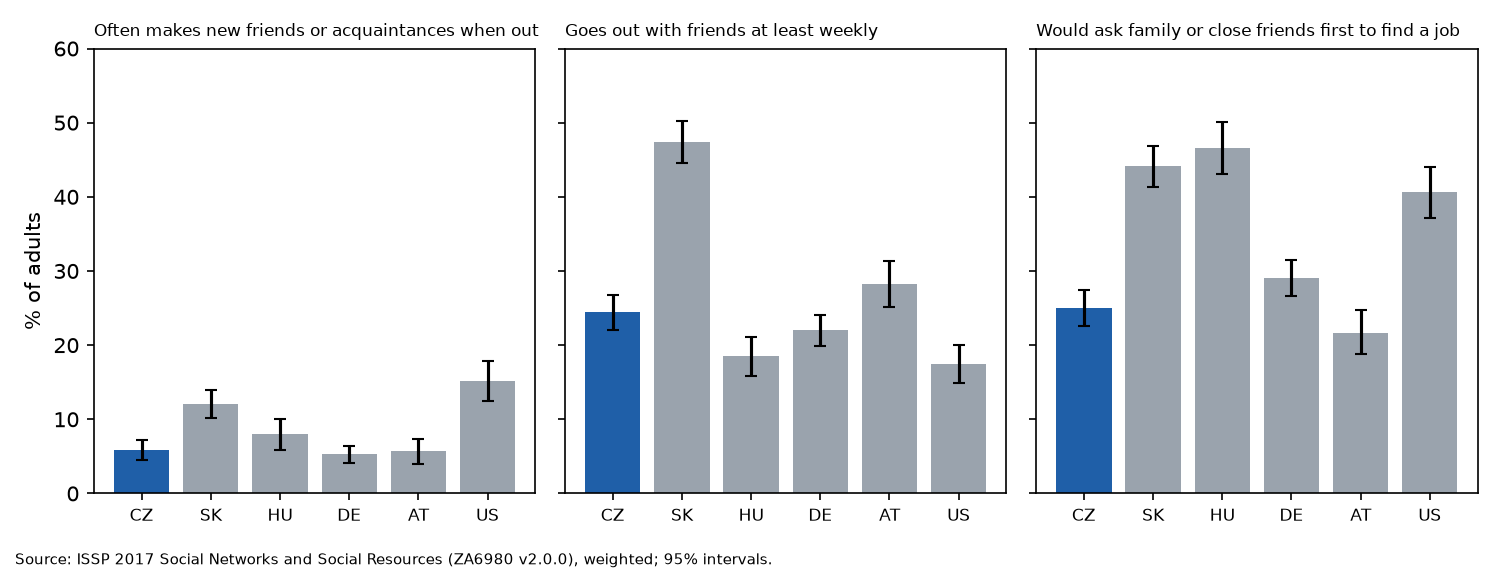
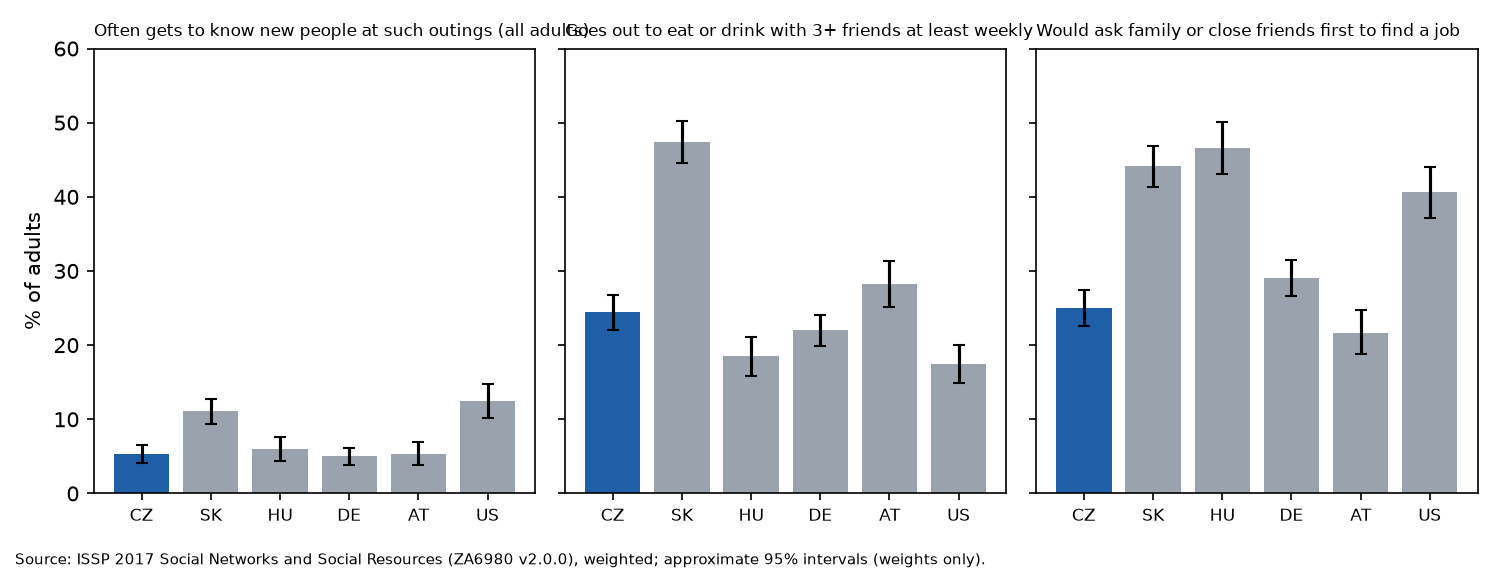
Czech culture snack: apply independent review corrections

diff --git a/tests/reading.test.ts b/tests/reading.test.ts
@@ -10,7 +10,7 @@ test('all source tables retain exact cells, inline links and order after wrappin
  expect(reading.html).not.toContain('cell-bar');expect(reading.html).not.toContain('visual-links');
  for(const v of reading.visuals.filter(v=>v.csv)){expect(v.csv!.split('\r\n').filter(Boolean).length).toBe(v.rows!+1);expect(v.csv).toContain('"');}
  expect(figuresMarkdown(reading,entry.id,entry.title)).toContain('Back to the text');}
- expect(total).toBe(86);
+ expect(total).toBe(92);
 });
 test('numbers, currency, dates and year ranges sort by value',()=>{
  expect(tableValue('48.4%')).toBe(48.4);expect(tableValue('£2,400')).toBe(2400);expect(tableValue('−93')).toBe(-93);expect(tableValue('(24.5)')).toBe(-24.5);expect(tableValue('1.2 billion')).toBe(1.2e9);expect(tableValue('1990–2024')).toBe(1990);expect(tableValue('1990s')).toBe(1990);expect(tableValue('17 December 1964')).toBe(Date.UTC(1964,11,17));expect(tableValue('unrecorded')).toBeNull();expect(tableValue('$9.9bn')).toBe(9.9e9);expect(tableValue('$9.11bn')).toBe(9.11e9);expect(tableValue('About £130,000')).toBe(130000);expect(tableValue('£1.2tn')).toBe(1.2e12);

diff --git a/entries/2026-11-22-czech-culture-guide-values-surveys/index.md b/entries/2026-11-22-czech-culture-guide-values-surveys/index.md
@@ -7,8 +7,8 @@ category: social-science
 tags: ["values surveys", "Czech Republic", "culture", "survey translation", "World Values Survey"]
 claim: "Old culture guides for visitors to the Czech Republic say that Czechs join fewer professional and interest groups than Americans and West Europeans, keep a strong boundary between people they know and strangers, and expect women to work but still carry the family and rarely lead."
 claim_source: "https://researchsnacks.semanticmachines.fyi/2026-11-22-czech-culture-guide-values-surveys/#what-the-guides-say"
-verdict: "The gender-role claim holds in three surveys. Czechs do make new friends and go out with friends less often than Americans or Slovaks, and they hold fewer group memberships, but they trust strangers as much as their neighbours do; on sociability they look like Germans and Austrians. Several large differences between the 2017 and 2022 Czech surveys come from changes in the Czech wording."
-time_taken: "About 40 minutes of recorded analysis on 22 November 2026 (01:14 to 01:27 and 08:57 to 09:30 UK time), plus an earlier scoping session on 21 and 22 November that is not measured here."
+verdict: "The claim about women as leaders holds in three surveys. Czechs go out with groups of friends and meet new people there less often than Slovaks or Americans, and in the 2022 survey they belong to far fewer groups than Germans or North Americans, yet they trust strangers about as much as Americans do. Several large differences between the 2017 and 2022 Czech surveys coincide with changes in the Czech wording or in how the questions were asked."
+time_taken: "About 55 minutes of recorded analysis and drafting on 22 November 2026 (01:14 to 01:27 and 08:57 to 09:45 UK time), plus an earlier scoping session on 21 and 22 November that is not measured here."
 human_time: "Estimated 20 minutes for Dominik: choosing the claims and countries, restating the friendship claim, and downloading six data and documentation files behind registration forms."
 tools:
   - "Claude Code (claude-opus-5-5)"
@@ -23,7 +23,7 @@ data_sources:
   - "ISSP 2017 Social Networks and Social Resources (ZA6980 v2.0.0)"
   - "ISSP 2022 Family and Changing Gender Roles V (ZA10000 v2.0.0)"
   - "Czech and Slovak national questionnaires (WVS 2022, EVS 2017, ISSP 2017)"
-summary: "Old culture guides for visitors claim that Czechs join few groups, keep strangers at a distance and hold traditional views of women's roles. Four international surveys agree on gender roles: Czechs answer like Slovaks, far from Germans, Austrians or North Americans. Czechs also make new friends and go out with friends less often than Americans or Slovaks, yet they trust strangers as much as their neighbours do, so reserve is not distrust. Some large shifts between the 2017 and 2022 Czech surveys come from translation: 'hard work' became 'tvrdá práce' (toil) and 'responsibility' became 'obligation'."
+summary: "Old culture guides for visitors claim that Czechs join few groups, keep strangers at a distance and hold traditional views of women's roles. Three international surveys agree that Czechs are far more likely than Germans, Austrians or North Americans to say men make better leaders. Czechs go out with groups of friends and meet new people there less often than Slovaks or Americans, yet they trust strangers about as much as Americans do, so reserve is not the same as distrust. Large shifts between the 2017 and 2022 Czech surveys coincide with changes in the Czech wording, such as 'pracovitost' becoming 'tvrdá práce' for hard work."
 references:
   - type: dataset
     authors: ["EVS/WVS"]
@@ -90,119 +90,158 @@ The guides do not cite surveys. They describe the experience of foreigners livin
 
 ### In short
 
-- **Gender roles: the claim holds.** In three surveys Czechs say men make better leaders about three times as often as Germans, Austrians, Americans or Canadians. Slovaks answer much like Czechs.
-- **Strangers: the claim needed restating.** Czechs do not distrust strangers more than their neighbours do. When Dominik looked at the trust result, he said that the guides meant something else: how readily people make friends, share and start working with people outside their circle. On those measures Czechs go out with friends and make new friends less often than Americans or Slovaks. They look like Germans and Austrians.
-- **Groups: the claim holds against the US, Germany and Canada,** but the size of the gap depends on how the question is asked.
+- **Women as leaders: the claim holds.** In three surveys Czechs say men make better political or business leaders far more often than Germans, Austrians, Americans or Canadians.
+- **Strangers: the claim needed restating.** Czechs do not report less trust in strangers than Americans, Austrians or Germans. When Dominik looked at the trust result, he said that the guides meant something else: how readily people make friends, share and start working with people outside their circle. The closest survey measure is about going out with groups of friends. Czechs do that, and meet new people there, less often than Slovaks or Americans, and about as often as Germans and Austrians.
+- **Groups: the claim holds against the US, Germany and Canada in the 2022 survey.** The 2017 survey asks the question differently and puts Czechia close to Germany and Austria.
 
-### The surveys disagree with each other
+### The two values surveys disagree
 
-Czechia was surveyed by the European Values Study in 2017 and by the World Values Survey in 2022. On several questions the two give very different answers. Reading the Czech questionnaires shows that most of these differences come from the wording, not from changes in opinion (see [Wording changes the answer](#wording-changes-the-answer)).
+Czechia was surveyed by the European Values Study (EVS) in 2017 and by the World Values Survey (WVS) in 2022. On several questions the two give very different answers. The Czech questionnaires show changes in wording or in how the question was asked for most of these items (see [Wording changes the answer](#wording-changes-the-answer)). Because of this, the tables below show the two surveys separately and compare countries only within the same survey.
 
-## Gender roles
+## Women and leadership
 
 ### Leaders and jobs
 
-| Agrees that… | Czechia | Slovakia | Poland | Germany | Austria | US | Canada |
-|---|---:|---:|---:|---:|---:|---:|---:|
-| men make better political leaders | 41–50 | 49–52 | 30 | 8–10 | 20 | 17 | 15 |
-| men should have priority when jobs are scarce | 22–27 | 37–42 | 24 | 7–9 | 14 | 5 | 6 |
-| children suffer when the mother works | 32 | 25–37 | 51 | 29–34 | 47 | 21 | 21 |
+| European Values Study, % agreeing | Czechia 2017 | Slovakia 2017 | Poland 2017 | Germany 2017 | Austria 2018 |
+|---|---:|---:|---:|---:|---:|
+| men make better political leaders | 41 | 52 | 30 | 10 | 20 |
+| men should have more right to a job when jobs are scarce | 22 | 37 | 24 | 7 | 14 |
+| children suffer when the mother works | 32 | 37 | 51 | 34 | 47 |
 
-Weighted percentages from the joint EVS/WVS dataset. Where a country has two surveys, both are shown as a range.
+| World Values Survey, % agreeing | Czechia 2022 | Slovakia 2022 | Germany 2018 | US 2017 | Canada 2020 |
+|---|---:|---:|---:|---:|---:|
+| men make better political leaders | 50 | 49 | 8 | 16 | 15 |
+| men should have more right to a job when jobs are scarce | 27 | 42 | 9 | 5 | 6 |
+| children suffer when the mother works | 32 | 25 | 29 | 21 | 21 |
+
+Weighted percentages agreeing or strongly agreeing. The jobs item is collapsed to agree, neither or disagree. Both Czech versions of the working-mother item ask about children in general; the master questionnaire mentions pre-school children.
 
 ![Share agreeing that men make better political leaders, by country and survey](charts/1-men-political-leaders.png)
 
-A third source agrees. In the ISSP 2022 survey on family and gender roles, 26% of Czechs say men are better suited to serve in government and 31% to run a large company, against 8–14% in Germany, Austria and the US. Slovakia is higher (44–49%) and Poland lower (17–19%).
+Czechs and Slovaks give similar answers about political leaders. On jobs, Slovaks are about 15 points more traditional than Czechs in both surveys.
 
-The working-mother question is the exception. Czechs are less traditional on it than Austrians or Poles.
+A third source agrees. In the ISSP 2022 survey on family and gender roles, 26% of Czechs say men are better suited to serve in the national government and 31% to be a senior executive of a large company. The figures are 8–14% in Germany, Austria and the US, 44–49% in Slovakia and 17–19% in Poland.
+
+The working-mother question is the exception: Czechs agree less often than Austrians or Poles.
 
 ## Making friends and working with strangers
 
 ### Trust is not the same as reserve
 
-| Trusts completely or somewhat | Czechia | Slovakia | Poland | Hungary | Ukraine | Germany | Austria | US | Canada |
-|---|---:|---:|---:|---:|---:|---:|---:|---:|---:|
-| people met for the first time | 37–39 | 30–33 | 27 | 39 | 21–29 | 30–35 | 40 | 40 | 50 |
-| people of another nationality | 45–46 | 41–43 | 51 | 57 | 46–50 | 63–64 | 59 | 74 | 82 |
+| European Values Study, % trusting completely or somewhat | Czechia | Slovakia | Poland | Hungary | Ukraine | Germany | Austria |
+|---|---:|---:|---:|---:|---:|---:|---:|
+| people met for the first time | 37 | 33 | 27 | 39 | 21 | 30 | 40 |
+| people of another nationality | 45 | 41 | 51 | 57 | 46 | 63 | 59 |
 
-Czechs trust strangers about as much as Americans and Austrians, and more than Germans, Slovaks, Poles or Ukrainians. They trust people of another nationality less than Germans or North Americans do, but about as much as their eastern neighbours.
-
-### How people meet and make friends
-
-The ISSP 2017 survey on social networks asks about behaviour, not trust. It covers Czechia, Slovakia, Hungary, Germany, Austria and the US, but not Poland, Canada or Ukraine.
-
-| | Czechia | Slovakia | Hungary | Germany | Austria | US |
+| World Values Survey, % trusting completely or somewhat | Czechia | Slovakia | Ukraine | Germany | US | Canada |
 |---|---:|---:|---:|---:|---:|---:|
-| Often or very often makes new friends or acquaintances when going out | 6 | 12 | 8 | 5 | 6 | 15 |
-| Goes out with friends at least weekly | 25 | 47 | 19 | 22 | 28 | 17 |
-| Leisure, sport or culture group activities at least monthly | 32 | 39 | 22 | 43 | 40 | 32 |
-| Would ask family or close friends first to find a job | 25 | 44 | 47 | 29 | 22 | 41 |
+| people met for the first time | 39 | 30 | 29 | 35 | 40 | 50 |
+| people of another nationality | 46 | 43 | 50 | 64 | 74 | 82 |
+
+In both surveys Czechs report trusting people they meet for the first time at least as often as Germans, and as often as Americans or Austrians. They report trusting people of another nationality less often than Germans, Austrians or North Americans.
+
+### Going out and meeting new people
+
+The ISSP 2017 survey on social networks asks about behaviour. One question asks how often people go out to eat or drink with three or more friends or acquaintances who are not family. The next asks how often they get to know new people on those occasions. The survey covers Czechia, Slovakia, Hungary, Germany, Austria and the US, but not Poland, Canada or Ukraine.
+
+| ISSP 2017, % of adults | Czechia | Slovakia | Hungary | Germany | Austria | US |
+|---|---:|---:|---:|---:|---:|---:|
+| Goes out to eat or drink with three or more friends at least weekly | 25 | 47 | 19 | 22 | 28 | 17 |
+| Often or very often gets to know new people at such outings | 5 | 11 | 6 | 5 | 5 | 13 |
+| Takes part in leisure, sport or culture group activities at least monthly | 32 | 39 | 22 | 43 | 40 | 32 |
+| Would turn first to family or close friends for help finding a job | 25 | 44 | 47 | 29 | 22 | 41 |
+
+The second row counts people who never go out as not meeting new people; among those who do go out, the figures are 6, 12, 8, 5, 6 and 15.
 
 ![Three sociability measures from ISSP 2017](charts/2-issp-sociability.png)
 
-Czechs rarely make new friends when they go out: 6%, against 15% of Americans. That supports the guides against the American comparison. But Germans and Austrians answer the same way, and Slovaks go out with friends twice as often as Czechs.
+Czechs meet new people at these outings less often than Americans or Slovaks, which fits the guides' comparison with Americans. On this and on going out, Czechs answer like Germans and Austrians. The other two measures point elsewhere: Czechs take part in group activities less often than Germans or Austrians, about as often as Americans, and fewer turn first to family or close friends for job help than in Slovakia or Hungary.
 
 ### Groups and joint action
 
-| | Czechia | Slovakia | Poland | Hungary | Germany | Austria | US | Canada |
-|---|---:|---:|---:|---:|---:|---:|---:|---:|
-| Belongs to two or more civic groups | 9–24 | 3–16 | 5 | 11 | 27–32 | 19 | 46 | 34 |
-| Has signed a petition, boycotted or demonstrated | 24–44 | 39–48 | 39 | 20 | 68–72 | 60 | 63 | 73 |
+| European Values Study, % of adults | Czechia | Slovakia | Poland | Hungary | Ukraine | Germany | Austria |
+|---|---:|---:|---:|---:|---:|---:|---:|
+| Belongs to at least one civic group | 54 | 16 | 18 | 25 | 16 | 62 | 48 |
+| Belongs to two or more civic groups | 28 | 3 | 5 | 11 | 6 | 29 | 19 |
+| Has ever signed a petition, joined a boycott or attended a lawful demonstration | 48 | 42 | 40 | 21 | 16 | 70 | 62 |
 
-Civic groups here exclude churches, unions and parties. Czechs take part in joint public action less than Germans, Austrians or North Americans, about as much as Slovaks and Poles.
+| World Values Survey, % of adults | Czechia | Slovakia | Ukraine | Germany | US | Canada |
+|---|---:|---:|---:|---:|---:|---:|
+| Belongs to at least one civic group | 25 | 37 | 30 | 64 | 64 | 55 |
+| Belongs to two or more civic groups | 9 | 18 | 17 | 32 | 46 | 34 |
+| Has ever signed a petition, joined a boycott or attended a lawful demonstration | 24 | 49 | 22 | 73 | 64 | 73 |
+
+Civic groups here are eight types of organisation, excluding churches, unions and parties. The World Values Survey counts active and inactive members together.
+
+The two surveys tell different stories for Czechia. In the 2022 World Values Survey, Czechs belong to groups and take part in joint public action far less often than Germans, Americans or Canadians, and less often than Slovaks. In the 2017 European Values Study, Czechs are close to Germany and Austria on membership and well above Slovakia, Poland and Hungary. The two surveys asked about membership in different ways (see [Wording changes the answer](#wording-changes-the-answer)).
 
 ## Family and work
 
 ### Duties to family
 
-| Agrees… | Czechia | Slovakia | Poland | Hungary | Germany | Austria | US | Canada |
-|---|---:|---:|---:|---:|---:|---:|---:|---:|
-| adult children have a duty to care for their parents (EVS/WVS) | 55–70 | 59–73 | 74 | 60 | 45–48 | 41 | 40 | 36 |
-| can rely more on close relatives than close friends (ISSP 2022) | 56 | 58 | 42 | 48 | 32 | 34 | 46 | – |
+| European Values Study, % agreeing | Czechia | Slovakia | Poland | Hungary | Germany | Austria |
+|---|---:|---:|---:|---:|---:|---:|
+| When a parent is ill long term, it is the adult child's duty to look after them | 70 | 73 | 74 | 60 | 45 | 41 |
+| Lives with own parents or parents-in-law | 16 | 23 | 27 | 23 | 13 | 13 |
 
-On family Czechs sit between west and east, and closer to Slovakia than to Germany or Austria.
+| World Values Survey, % agreeing | Czechia | Slovakia | Germany | US | Canada |
+|---|---:|---:|---:|---:|---:|
+| Adult children have the duty to provide long-term care for their parents | 55 | 59 | 48 | 40 | 36 |
+| Lives with own parents or parents-in-law | 15 | 16 | 10 | 11 | 14 |
+
+In the ISSP 2017, 75% of Czechs agree that adult children have a duty to look after elderly parents, against 79% of Slovaks, 55% of Germans and 51% of Austrians. In the ISSP 2022, 56% of Czechs say they can rely more on close relatives than on close friends, close to Slovakia (58%) and Croatia (58%) and well above Germany (32%) and Austria (34%).
+
+On duties to parents Czechs agree slightly less often than Slovaks in all three surveys and much more often than Germans or Austrians.
 
 ### Duties to work
 
-| Agrees… | Czechia | Slovakia | Poland | Hungary | Ukraine | Germany | Austria | US | Canada |
-|---|---:|---:|---:|---:|---:|---:|---:|---:|---:|
-| work is a duty towards society | 49–60 | 58–66 | 74 | 69 | 40–43 | 75–78 | 74 | 59 | 55 |
-| people who don't work turn lazy | 68–78 | 79 | 82 | 79 | 64–66 | 56–60 | 57 | 44 | 40 |
+| European Values Study, % agreeing | Czechia | Slovakia | Poland | Hungary | Ukraine | Germany | Austria |
+|---|---:|---:|---:|---:|---:|---:|---:|
+| Work is a duty towards society | 60 | 66 | 74 | 69 | 43 | 78 | 74 |
+| People who don't work turn lazy | 78 | 79 | 82 | 79 | 66 | 60 | 57 |
 
-Work as a duty to society is weaker in Czechia than in any other European country here except Ukraine. Yet most Czechs agree that people who don't work turn lazy, as their eastern neighbours do.
+| World Values Survey, % agreeing | Czechia | Slovakia | Ukraine | Germany | US | Canada |
+|---|---:|---:|---:|---:|---:|---:|
+| Work is a duty towards society | 49 | 58 | 40 | 75 | 59 | 54 |
+| People who don't work turn lazy | 68 | 79 | 64 | 56 | 44 | 40 |
+
+Fewer Czechs than Slovaks, Poles, Hungarians, Germans or Austrians call work a duty towards society; only Ukrainians agree less often. Yet most Czechs agree that people who don't work turn lazy, as Slovaks, Poles and Hungarians do.
 
 ## Wording changes the answer
 
 ### What the Czech questionnaires say
 
-| Question | Czech EVS 2017 | Czech WVS 2022 | Answers |
+| Question | Czech EVS 2017 | Czech WVS 2022 | Czech answers |
 |---|---|---|---:|
-| Hard work as a quality for children | "pracovitost" (industriousness) | "tvrdá práce" (hard labour, toil) | 81% → 23% |
-| Having children and society | "zodpovědnost" (a responsibility) | "povinnost" (an obligation) | 58% → 28% |
+| Hard work as a quality for children | "pracovitost" (industriousness) | "tvrdá práce" (hard work; the phrase can suggest toil) | 81% → 23% |
+| Having children and society | "zodpovědnost" (a responsibility) | "povinnost" (a duty or obligation) | 58% → 28% |
 | Caring for parents | duty to look after a parent who is ill long term | duty to provide long-term care for parents | 70% → 55% |
-| Group membership | which organisations do you belong to (list) | active member, inactive member or not a member, item by item | 47% → 25% |
+| Group membership | show card: which of these do you belong to? | read out one by one: active member, inactive member or not a member | 54% → 25% |
 
 The Slovak WVS 2022 questionnaire uses "pracovitosť" for hard work, and 63% of Slovaks chose it.
 
 ![Czech and Slovak answers in 2017 and 2022 on four questions](charts/3-wording-effects.png)
 
-Two more problems showed up:
+The questionnaires show that the wording or the format changed. They cannot show how much of each gap the change caused.
 
-- In the Czech EVS 2017, 18% of respondents chose more than five qualities for children, although the questionnaire asked for at most five. Every Czech EVS figure on that list is therefore too high.
-- The general trust question is translated differently in different surveys. Both Czech values surveys keep the original contrast with "you have to be very careful in dealing with people". The Czech ISSP 2017 version offers "people can usually be trusted" against "people usually cannot be trusted". Czech trust comes out at 22% (EVS 2017), 37% (WVS 2022) and 59% (ISSP 2017).
+Two more points:
+
+- In the Czech EVS 2017, 18% of respondents have more than five child qualities recorded, although the questionnaire asked for at most five. Among those with five or fewer, 78% chose hard work, which still leaves a gap of about 55 points to 2022.
+- The general trust question is framed differently. Both Czech values surveys contrast trusting most people with having to be very careful in dealing with people. The Czech ISSP 2017 version offers four answers from "people can almost always be trusted" to "people can almost never be trusted", without the caution framing of the English original. The Czech figures are 22% (EVS 2017, trusting answer), 37% (WVS 2022, trusting answer), 59% (ISSP 2017, almost always or usually) and 50% (ESS 2021, 6–10 on a 0–10 scale). The framing is a possible explanation for the high ISSP figure; it was not tested.
 
 ### Change or wording?
 
-If a gap comes from wording, it should be about the same size in every group of people. For hard work (52 to 62 points), duty to have children (25 to 33 points) and group membership (19 to 27 points), the 2017–2022 gap is similar across age and education groups. For trust and for the duty to care for parents, the gap varies between groups, so part of it may be real change. The Czech WVS was carried out between February and May 2022, after COVID and during the first months of the Russian invasion of Ukraine.
+If a gap comes from wording, it should be about the same size in every group of people. For hard work (52 to 62 points), duty to have children (25 to 33 points) and group membership (26 to 32 points), the gap between 2017 and 2022 is similar across age and education groups. For trust and for the duty to care for parents, the gap varies between groups, so part of it may be real change. The Czech WVS interviews took place between 11 February and 13 May 2022; 101 of the 1,200 interviews were done before the Russian invasion of Ukraine on 24 February.
 
 ## Limits of this check
 
 - These are national averages. They say nothing about any individual Czech, and the differences within each country are larger than those between countries.
-- The surveys ask about attitudes and a few reported behaviours. They do not observe how people actually behave with strangers or at work.
-- Comparisons across surveys are unsafe. Figures are compared only within the same survey, and a range is shown where a country has two.
-- The ISSP 2017 module does not cover Poland, Canada or Ukraine; ESS round 10 does not cover Germany, Austria or Poland.
-- The translation findings rest on reading the questionnaires. The German, Austrian and English versions were not compared item by item.
-- Each guide claim was turned into survey items by judgement (see [Data and method](#data-and-method)). A different choice of items could give a different picture.
+- The surveys ask about attitudes and a few reported behaviours. The ISSP outing question covers one kind of occasion; none of these surveys observes how people actually behave with strangers or how readily they start working together.
+- Countries are compared only within the same survey. Surveys were carried out in different years and modes (see [Data and method](#data-and-method)), and the US and Canadian WVS samples answered mostly online.
+- The ISSP 2017 module does not cover Poland, Canada or Ukraine; Hungary and Ukraine are not neighbours of Czechia but were added for regional context.
+- The intervals in the charts account for the survey weights only, not for clustering or stratification, so they are approximate. Overlapping intervals do not show that two countries are the same.
+- The translation findings rest on reading the Czech and Slovak questionnaires. The German, Austrian, Polish and English versions were not compared item by item.
+- Each guide claim was turned into survey items by judgement. A different choice of items could give a different picture.
 - The guides contain material written by other people, some of it from the 1990s. This page tests the claims, not who made them.
 
 ## How this was made
@@ -215,25 +254,35 @@ All times UK time (GMT).
 - **22 November 01:14:** Dominik chose the countries: the US, Canada and the neighbours.
 - **01:18–01:22:** Dominik downloaded the joint EVS/WVS and ESS files.
 - **01:24–01:27:** first weighted tables for the three claims.
-- **08:57:** Dominik restated the friendship claim: it was about patterns of contact, not trust. He added Hungary and Ukraine.
+- **08:57:** Dominik restated the friendship claim: it was about patterns of contact and cooperation, not trust. He added Hungary and Ukraine.
 - **08:59:** he asked about duties to family and work.
 - **09:04:** he asked for the disagreements to be checked against the question wording, including the Czech translations.
-- **09:06–09:14:** Dominik downloaded the ISSP 2017 and 2022 files and the Czech and Slovak EVS questionnaires; the agent downloaded the WVS questionnaires.
-- **09:27:** second-model review requested; subgroup check and draft.
+- **09:06–09:14:** Dominik downloaded the ISSP 2017 and 2022 files and the Czech and Slovak EVS questionnaires; the agent downloaded the WVS questionnaires and the Czech WVS technical report.
+- **09:27–09:34:** Codex reviewed the scripts and claims; it reproduced every table and found errors in the membership measure, the description of the outing question and the labelling of surveys, all corrected here.
 
 ### Data and method
 
-- All figures are weighted percentages of adults with valid answers ("don't know" and no answer excluded). Weights: `gwght` (EVS/WVS), `anweight` (ESS), `WEIGHT` (ISSP 2017), `WEIGHT_COM` (ISSP 2022). Intervals are 95% intervals using the effective sample size.
-- Judgement steps: which survey items stand for each guide claim; collapsing agree-strongly and agree; which organisation types count as civic groups (all except churches, unions and parties); treating 1–3 on the ISSP 2022 seven-point scales as leaning one way.
+| Survey | Fieldwork used here | Mode |
+|---|---|---|
+| European Values Study 2017 | CZ, SK, PL 2017; DE 2017–18; AT, HU 2018; UA 2020 | face to face; Germany also web and mail |
+| World Values Survey wave 7 | US 2017; DE 2018; CA, UA 2020; CZ, SK 2022 | CZ face to face (CAPI); US mainly and Canada entirely web |
+| ISSP 2017 Social Networks | CZ, SK, HU 2017; DE, AT, US 2018 | CZ face to face; DE mainly self-completion |
+| ISSP 2022 Family and Gender Roles | CZ, SK, PL, US 2022; DE, AT 2023; HR 2024 | as documented by each country |
+| European Social Survey round 10 | CZ July–September 2021 | face to face |
+
+- All figures are weighted percentages of adults with valid answers ("don't know" and no answer excluded). Weights: `gwght` (EVS/WVS), `anweight` (ESS), `WEIGHT` (ISSP 2017), `WEIGHT_COM` (ISSP 2022).
+- Membership uses every respondent who can be classified: a yes if they named enough groups, a no only if their missing answers could not change the result.
+- Judgement steps: which survey items stand for each guide claim; collapsing strongly agree and agree; which organisation types count as civic groups; treating 1–3 on the ISSP 2022 seven-point scale as leaning towards relatives.
 - The survey microdata are not redistributed. Derived tables, the code and the item definitions will be published in the data repository before this page goes live.
 
 ### Models, tools and tokens
 
 | Model | Role | Calls | Tokens read | Tokens written |
 |---|---|---:|---:|---:|
-| claude-opus-5-5 | analysis, questionnaire reading, drafting | 109 | 17,698,085 | 82,350 |
+| claude-opus-5-5 | analysis, questionnaire reading, drafting | 139 | 26,080,258 | 111,346 |
 | claude-sonnet-5-5 | survey coverage check | 12 | 796,323 | 6,833 |
+| gpt-6.2-sol (Codex) | independent review of scripts and claims | – | – | – |
 
-Counts cover the Claude Code session of 22 November from 01:14 to 09:29 UK time, from `scripts/session-usage.py`. Tokens read include the cached conversation history re-read on each call. The earlier scoping session and the Codex review are not included yet.
+Claude counts cover the Claude Code session of 22 November from 01:14 to 09:37 UK time, from `scripts/session-usage.py`. Tokens read include the cached conversation history re-read on each call. The earlier scoping session and the Codex review's usage are not included yet.
 
 Other tools: Python with pandas and matplotlib for the analysis, pdftotext for the questionnaires, Vega-Lite for the interactive charts.
